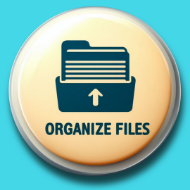
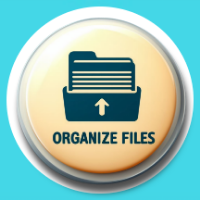
New Day

diff --git a/My_tkinter.py b/My_tkinter.py
@@ -163,7 +163,7 @@ def create_and_open_tab(section_name):
             button_style = 'my_custom.TButton'  # Define a custom style name
 
             # Configure the style to set the background color
-            root.style.configure(button_style, background="#44d7e8", activebackground="#54B4D3", borderwidth=0, padding=(5, 5), relief=SUNKEN)
+            root.style.configure(button_style, background="#44d7e8", activebackground="#54B4D3", borderwidth=0, padding=(0, 0), relief=SUNKEN)
 
             # Create the button with the custom style
             img_button = tb.Button(frame2, image=org_button, command=creating_button, style=button_style)

diff --git a/Back_end.py b/Back_end.py
@@ -1,6 +1,5 @@
 import os
 import shutil
-import My_tkinter
 import file_types
 
 
